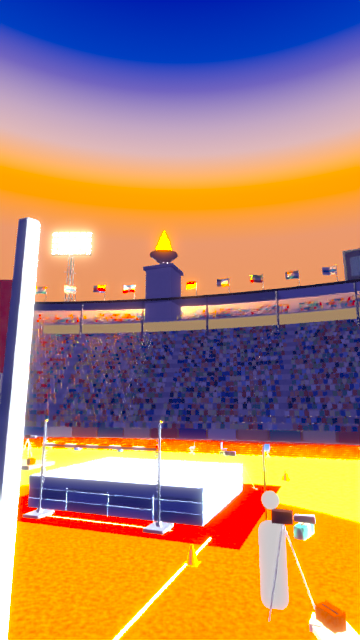
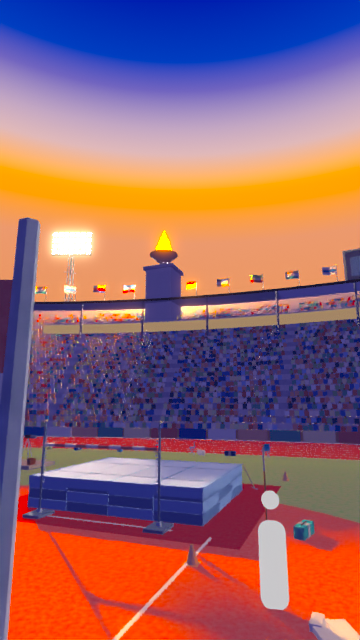
Film 15: set3d15 WIP

diff --git a/film/v3/set3d15/set15_b.py b/film/v3/set3d15/set15_b.py
@@ -8,6 +8,7 @@ from set15_lib import S, mat, mat_emit, rnd, fin, adopt, root, plane_at, STATE
 import set15_props as PR
 import set15_a as LA
 
+FLOOD_W = 4.0e4
 SX, SY = 0.0, 8.0
 NROW = 28; RW = 0.9; RISE = 0.72; A0 = 64.0; B0 = 36.0
 BAR_Y_B = 11.6; PIT_B = (0.0, 15.0); FOAM_TOP = 1.0
@@ -291,7 +292,7 @@ def build_b(P, M, dress=True):
             for iz in range(4): mb.box(M['lamp'], (0.3, -3.9 + iy * 1.3, -2.1 + iz * 1.4), (0.12, 1.0, 1.0))
         mb.pop()
         if P['floods'] > 0:
-            sp = bpy.data.lights.new('flood%d' % tdeg, 'SPOT'); sp.color = (1.0, 0.9, 0.72); sp.energy = 3.2e6 * P['floods'] / 4.0; sp.spot_size = math.radians(34); sp.spot_blend = 0.35; sp.use_shadow = False; sp.shadow_soft_size = 1.0
+            sp = bpy.data.lights.new('flood%d' % tdeg, 'SPOT'); sp.color = (1.0, 0.9, 0.72); sp.energy = FLOOD_W * P["floods"]; sp.spot_size = math.radians(34); sp.spot_blend = 0.35; sp.use_shadow = False; sp.shadow_soft_size = 1.0
             so = bpy.data.objects.new('flood%d' % tdeg, sp); STATE['LIGHTS'].objects.link(so); so.parent = root(); so.location = (x, y, H_ + 2.0)
             tgt = Vector((0.0 + 3 * math.cos(u), 12.0, 0.0)); so.rotation_euler = (tgt - Vector((x, y, H_ + 2.0))).to_track_quat('-Z', 'Y').to_euler(); STATE.setdefault('flood_lights', []).append(so)
     fin(mb)
@@ -338,7 +339,7 @@ def build_b(P, M, dress=True):
     # --- photographers' area: low platform with tripods and cameras along the inner kerb, plus bags
     mb = S.MB('photo')
     mb.box(M['woodgrey'], (-12.0, 20.0, 0.1), (6.0, 2.2, 0.2)); mb.box(M['woodgrey'], (13.0, 23.0, 0.1), (5.0, 2.2, 0.2))
-    for (x, y) in [(-14.0, 20.0), (-12.0, 20.3), (-10.0, 19.8), (11.0, 23.0), (13.2, 23.3), (15.0, 22.8), (-22.0, 24.0), (28.0, 26.0), (6.0, 8.2)]:
+    for (x, y) in [(-14.0, 20.0), (-12.0, 20.3), (-10.0, 19.8), (11.0, 23.0), (13.2, 23.3), (15.0, 22.8), (-22.0, 24.0), (28.0, 26.0)]:
         z0 = 0.2 if abs(x) < 16 and y > 19 else 0.0
         for a in (0, 2.1, 4.2): mb.rod(M['metal'], (x, y, z0 + 1.4), (x + math.cos(a) * 0.5, y + math.sin(a) * 0.5, z0), 0.015, 0.015, 4)
         mb.box(M['dark'], (x, y, z0 + 1.5), (0.35, 0.2, 0.2)); mb.rod(M['steel'], (x + 0.2, y, z0 + 1.5), (x + 0.55, y, z0 + 1.5), 0.06, 0.08, 8)

diff --git a/film/v3/set3d15/set15.py b/film/v3/set3d15/set15.py
@@ -13,6 +13,8 @@ from mathutils import Vector, Matrix
 import set15_lib as L
 from set15_lib import S, U, DM, STATE, T, kdir, mat, rnd
 import set15_a as LA
+import set15_b as LB0
+LB_FLOOD = LB0.FLOOD_W
 
 HERE = L.HERE
 WORK = os.path.join(HERE, 'work')
@@ -329,7 +331,7 @@ def switch_light(to, start_frame, n_frames=12):
             for i, ((p0, c0), (p1, c1)) in enumerate(zip(P0['sky'], P1['sky'])):
                 a = L.hexl(c0); b = L.hexl(c1)
                 for c in range(3): drv(wn, 'nodes["%s"].color_ramp.elements[%d].color' % (nd.name, i), c, a[c], b[c])
-    for fl in STATE.get('flood_lights', []): drv(fl.data, 'energy', None, 3.2e6 * P0['floods'] / 4.0, 3.2e6 * P1['floods'] / 4.0)
+    for fl in STATE.get('flood_lights', []): drv(fl.data, 'energy', None, LB_FLOOD * P0["floods"], LB_FLOOD * P1["floods"])
     for m in bpy.data.materials:
         if m.name.startswith('E|hill') and m.node_tree:
             em = [x for x in m.node_tree.nodes if x.bl_idname == 'ShaderNodeEmission'][0]; li = int(m.name.split('hill')[1][0]); a = L.hexl(P0['hills'][li][3]); b = L.hexl(P1['hills'][li][3])
